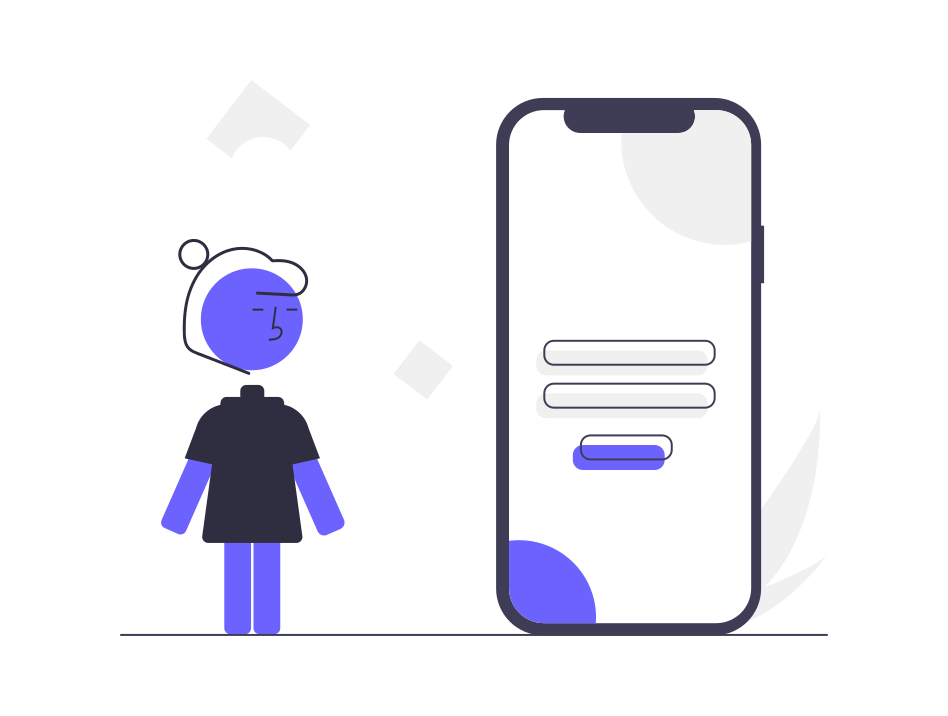
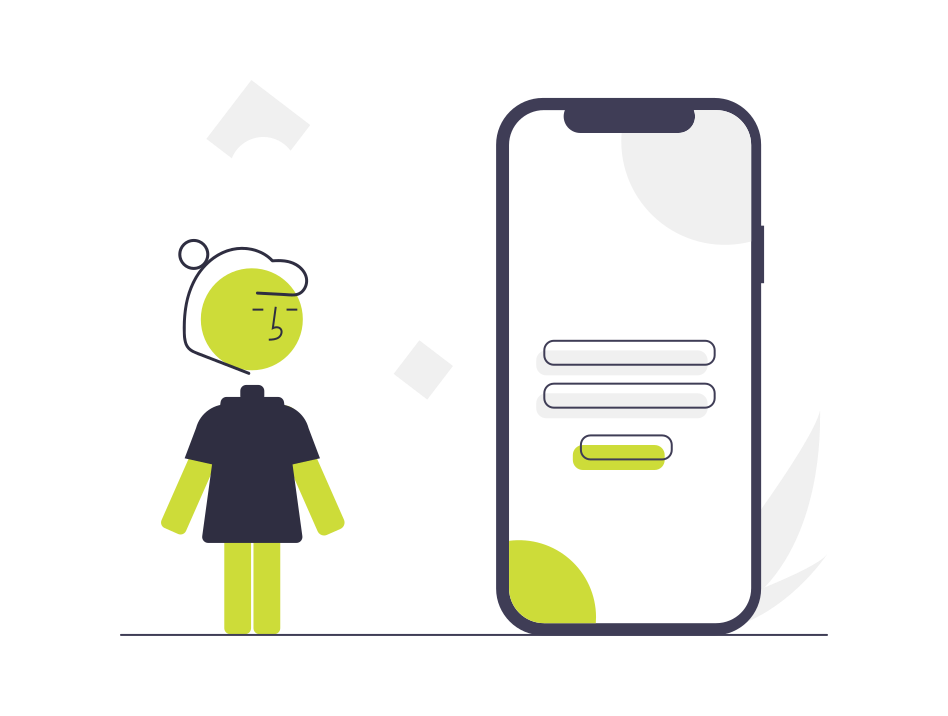
More additions

diff --git a/lib/screens/Login.dart b/lib/screens/Login.dart
@@ -1,19 +1,35 @@
 import 'package:flutter/material.dart';
+import 'package:to_do_list/Screens/home_screen.dart';
+import 'package:to_do_list/Screens/ForgotPassword.dart';
 
 class LoginScreen extends StatelessWidget{
   const LoginScreen({super.key});
 
   @override
   Widget build(BuildContext context){
+
+    //ELevated button style defined here for reuse
+    final ButtonStyle elevatedButtonsStyle = ElevatedButton.styleFrom(
+      side: const BorderSide(
+        color: Colors.black,
+        width: 2,
+      ),
+      shadowColor: Colors.lime,
+      textStyle: const TextStyle(
+        fontSize: 20,
+        fontStyle: FontStyle.normal,
+      ),
+    );
+
     return Scaffold(
       appBar: AppBar(
         title: const Text('Login'),
       ),
-      body: Center(
+      body: SingleChildScrollView(
         child: Column(
-          mainAxisAlignment: MainAxisAlignment.center,
+          mainAxisAlignment: MainAxisAlignment.start,
           children:[
-            const Image(image: AssetImage('Mobile_login.png')),
+            const Image(image: AssetImage('images/mobile_login_png.png')),
             const Padding(
               padding: EdgeInsets.symmetric(
                 horizontal: 10,
@@ -22,27 +38,40 @@ class LoginScreen extends StatelessWidget{
               child: TextField(
                 decoration: InputDecoration(
                   border: OutlineInputBorder(),
-                  hintText: 'Username',
+                  labelText: 'Username',
+                  hintText: 'Enter your registered name',
                 )
               ),
             ),
             const Padding(
               padding: EdgeInsets.symmetric(
                   horizontal: 10,
-                  vertical: 10),
+                  vertical: 5),
               child: TextField(
-                decoration: InputDecoration(
+                  obscureText: true,
+                  decoration: InputDecoration(
                   border: OutlineInputBorder(),
-                  hintText: 'Password',
+                  labelText: 'Password',
+                  hintText: 'Enter your secure password',
                 ),
               ),
             ),
-            const Text('Forgot Password',
+            TextButton(
+                onPressed:(){
+                  Navigator.push(context, MaterialPageRoute(builder: (context)
+                  => const ForgotPassScreen()),);
+                },
+                child: const Text('Forgot password',
+                    style: TextStyle(
+                      color: Colors.blue,
+                    )),
             ),
             ElevatedButton(
-              onPressed:(){
-                Navigator.pop(context);
+              onPressed: (){
+                Navigator.push(context, MaterialPageRoute(builder: (context)
+                => const HomeScreen()),);
               },
+              style: elevatedButtonsStyle,
               child: const Text('Login'),
             )
           ]

diff --git a/lib/screens/home_screen.dart b/lib/screens/home_screen.dart
@@ -1,11 +1,23 @@
 import 'package:flutter/material.dart';
-import 'package:to_do_list/Screens/Login.dart';
 
 class HomeScreen extends StatelessWidget{
   const HomeScreen({super.key});
 
   @override
   Widget build(BuildContext context){
+    //ELevated button style defined here for reuse
+    final ButtonStyle elevatedButtonsStyle = ElevatedButton.styleFrom(
+      side: const BorderSide(
+        color: Colors.black,
+        width: 2,
+      ),
+      shadowColor: Colors.lime,
+      textStyle: const TextStyle(
+        fontSize: 20,
+        fontStyle: FontStyle.normal,
+      ),
+    );
+
     return Scaffold(
       appBar: AppBar(
         title: const Text('To do List'),
@@ -14,39 +26,24 @@ class HomeScreen extends StatelessWidget{
         child: Column(
             mainAxisAlignment:MainAxisAlignment.center,
             children: [
+              const Text('Hello',
+                  style: TextStyle(
+                    color: Colors.lime,
+                    fontSize: 25,
+                    fontStyle: FontStyle.normal,
+                  )),
               const Text("Welcome to to the to do list app!",
               style: TextStyle(
-                color: Colors.blue,
+                color: Colors.lime,
                 fontSize: 18,
                 fontStyle: FontStyle.normal,
               )),
-              const Text('Hello',
-              style: TextStyle(
-                color: Colors.purple,
-                fontSize: 15,
-                fontStyle: FontStyle.normal,
-              )),
+              const Image(image: AssetImage('images/'
+                  'home_screen_to_do_list.png')),
               ElevatedButton(
-                onPressed: (){
-                  Navigator.push(context, MaterialPageRoute(builder: (context)
-                  => const LoginScreen()),);
-                },
-                style: ElevatedButton.styleFrom(
-                    textStyle: const TextStyle(
-                    color: Colors.white38,
-                    fontSize: 20,
-                    fontStyle: FontStyle.normal,
-                  ),
-                  side: const BorderSide(
-                    color: Colors.black,
-                    width: 2,
-                  ),
-                  shape: const BeveledRectangleBorder(
-                    borderRadius: BorderRadius.all(Radius.circular(10)),
-                  ),
-                  shadowColor: Colors.lime,
-                ),
-                child: const Text('Raised button'),
+                onPressed: null,
+                style: elevatedButtonsStyle,
+                child: const Text('Your tasks'),
               )
             ],
         ),

diff --git a/lib/screens/ForgotPassword.dart b/lib/screens/ForgotPassword.dart
@@ -1,0 +1,57 @@
+import 'package:flutter/material.dart';
+
+class ForgotPassScreen extends StatelessWidget{
+  const ForgotPassScreen({super.key});
+
+  @override
+  Widget build(BuildContext context){
+    //ELevated button style defined here for reuse
+    final ButtonStyle elevatedButtonsStyle = ElevatedButton.styleFrom(
+      side: const BorderSide(
+        color: Colors.black,
+        width: 2,
+      ),
+      shadowColor: Colors.lime,
+      textStyle: const TextStyle(
+        fontSize: 20,
+        fontStyle: FontStyle.normal,
+      ),
+    );
+    return Scaffold(
+      appBar: AppBar(
+        title: const Text('Forgot Password'),
+      ),
+      body: SingleChildScrollView(
+        child: Column(
+          mainAxisAlignment: MainAxisAlignment.start,
+          children: [
+            const Image(image: AssetImage('images/forgot_password.png')),
+            const Padding(
+              padding: EdgeInsets.symmetric(
+                horizontal: 10,
+                vertical: 5,
+              ),
+              child: TextField(
+                decoration: InputDecoration(
+                  border: OutlineInputBorder(),
+                  labelText: 'Email',
+                  hintText: 'Enter your email address to reset your password',
+                ),
+              ),
+            ),
+            ElevatedButton(
+              onPressed:(){ },
+              style: ElevatedButton.styleFrom(
+                side: const BorderSide(
+                  color: Colors.black,
+                  width: 2,
+                )
+              ),
+              child: const Text('Reset Password'),
+            ),
+          ],
+        )
+      )
+    );
+  }
+}

diff --git a/lib/main.dart b/lib/main.dart
@@ -1,5 +1,5 @@
 import 'package:flutter/material.dart';
-import 'package:to_do_list/screens/home_screen.dart';
+import 'package:to_do_list/Screens/Login.dart';
 
 void main() {
   runApp(const ToDoApp());
@@ -12,13 +12,13 @@ class ToDoApp extends StatelessWidget {
   @override
   Widget build(BuildContext context) {
     return MaterialApp(
+      debugShowCheckedModeBanner: false,
       title: 'Todo List App',
       theme: ThemeData(
         primarySwatch: Colors.lime,
       ),
-      home: const HomeScreen(),
+      home: const LoginScreen(),
 
-      debugShowCheckedModeBanner: false,
     );
   }
 }
